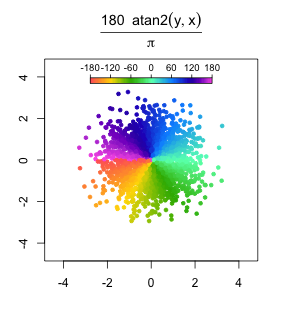
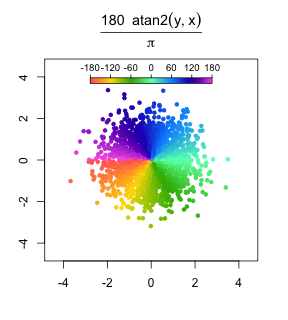
Version 0.5.3

diff --git a/README.md b/README.md
@@ -2,11 +2,9 @@ Barbouille
 ================================================================================
 
 My collection of plotting and color mapping functions, home cooked with
-[base R graphics](https://stat.ethz.ch/R-manual/R-patched/library/graphics/html/00Index.html)
-as well as the
+[base R graphics](https://stat.ethz.ch/R-manual/R-patched/library/graphics/html/00Index.html),
 [ash](https://CRAN.R-project.org/package=ash) and
-[colorspace](https://cran.r-project.org/package=colorspace)
-`R` packages.
+[colorspace](https://cran.r-project.org/package=colorspace).
 
 ### Main features
 
@@ -112,25 +110,20 @@ ColorLegend("t", parameters = cmp, horiz = T, size = c(60, 3), cex = 0.8)
 
 # Example 2
 cmp <- UpdateDefinition(cmp, levels = 3)
-ScatterPlot(x, y, clr = a, clr.prm = cmp, xlim = rng, ylim = rng, main = v)
-ColorLegend("t", parameters = cmp, horiz = T, size = c(60, 3), cex = 0.8)
-
-# Example 3
-cmp <- TransformColors(cmp, S.range = 0.5)
+cmp <- TransformColors(cmp, S.range = 0.6)
 ScatterPlot(x, y, clr = a, clr.prm = cmp, xlim = rng, ylim = rng, main = v)
 ColorLegend("t", parameters = cmp, horiz = T, size = c(60, 3), cex = 0.8)
 ```
 
 ![](./images/gallery/barbouille_12.png "example")
 ![](./images/gallery/barbouille_13.png "example")
-![](./images/gallery/barbouille_14.png "example")
 
 ```r
 # Work in progress...
 ```
 
+![](./images/gallery/barbouille_14.png "example")
 ![](./images/gallery/barbouille_15.png "example")
-![](./images/gallery/barbouille_16.png "example")
 
 ### <a name="install"></a>Installation
 
@@ -145,6 +138,7 @@ If the installation fails, try to install dependencies as indicated
 in the following section.
 
 #### Dependencies
+
   - [R environment](https://www.r-project.org/) version 3.4 or newer
   - To develop and execute `R` scripts we recommend using [RStudio](https://www.rstudio.com/products/rstudio/download)
   - CRAN packages `devtools`, `colorspace`, `ash`, `triangle`, `caTools`
